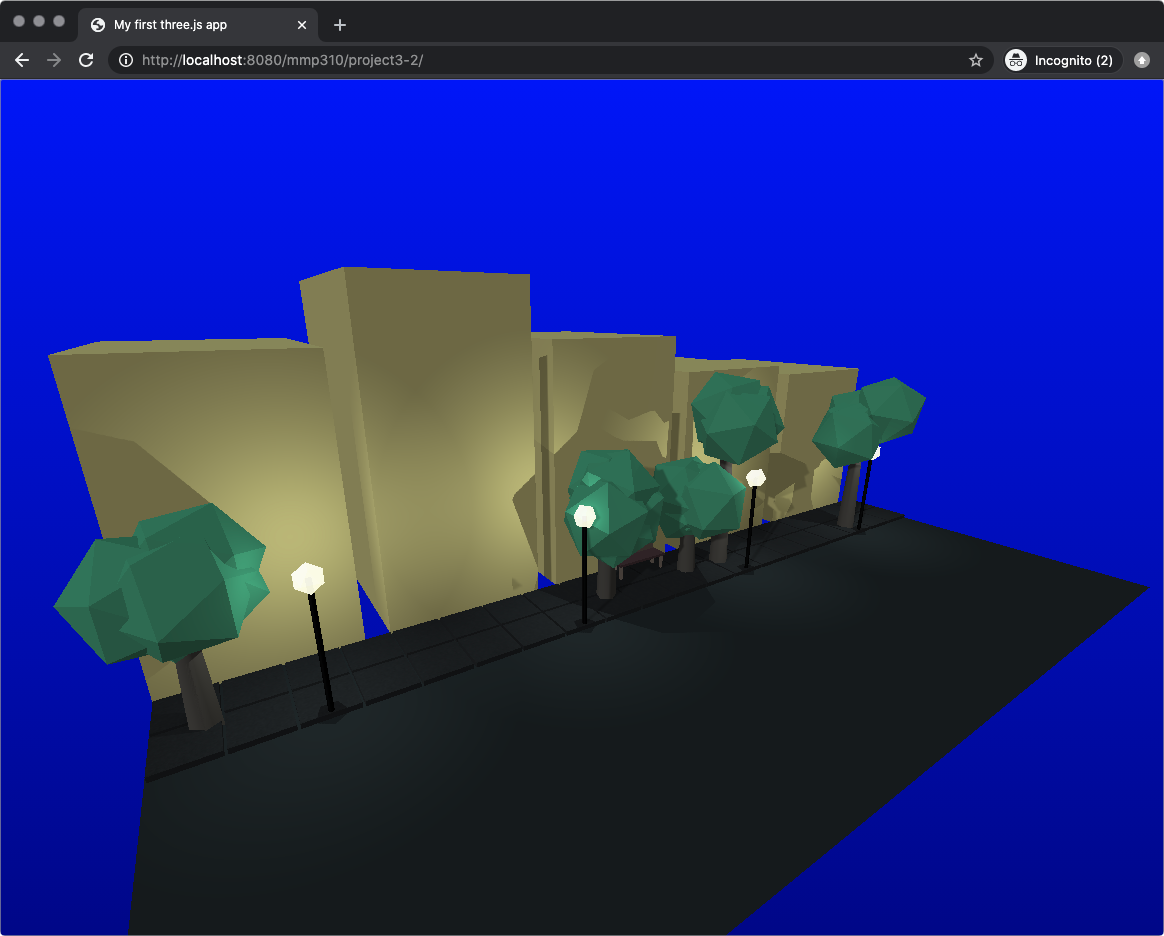
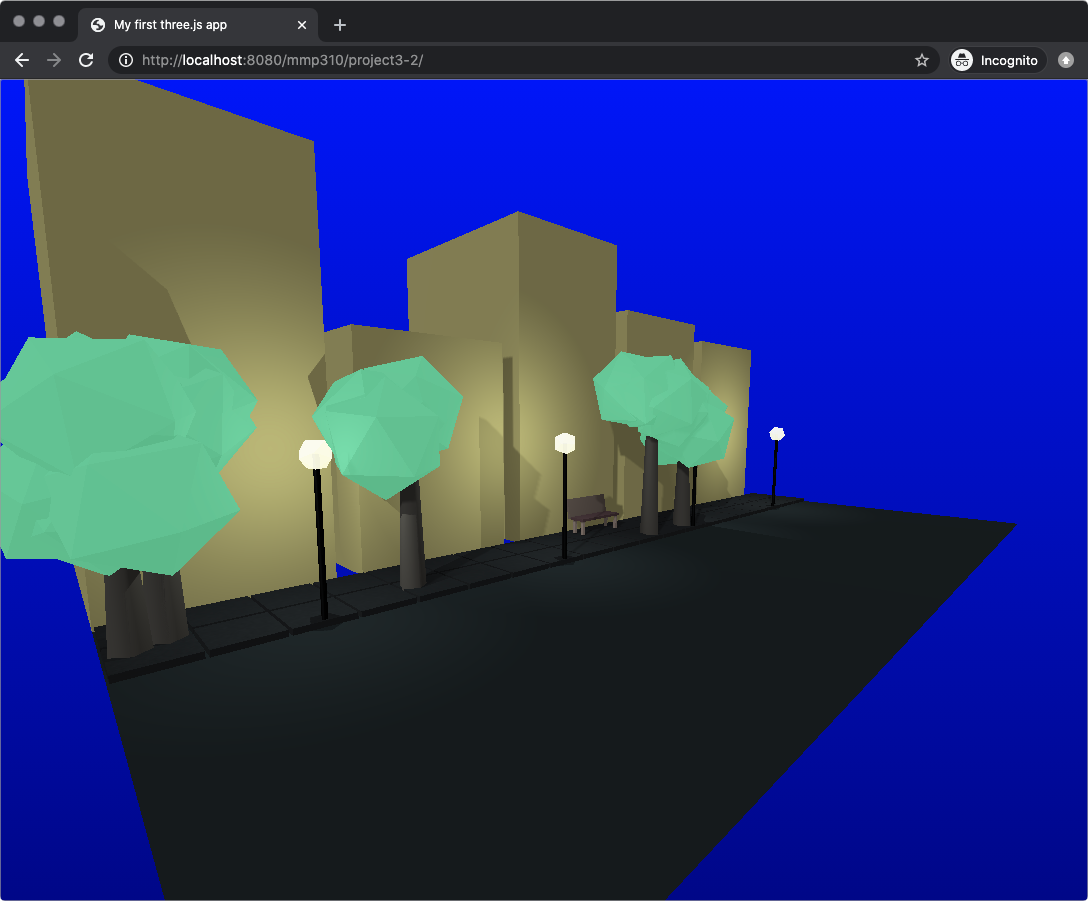
material update

Changed region(s): [[0.0, 0.0, 1.0, 1.0], [0.625, 0.5594, 1.0, 0.9945], [0.5938, 0.9945, 0.625, 1.0]]

diff --git a/project3-2/scene.js b/project3-2/scene.js
@@ -128,7 +128,7 @@ for (let i = 0; i < numTrees; i++) {
 	const numLeaves = random( 1, 5 );
 	for (let j = 0; j < numLeaves; j++) {
 		const leafGeo = new THREE.IcosahedronGeometry( random( 0.25 ) );
-		const leafMat = new THREE.MeshStandardMaterial( { color: 0x8AE8A7, metalness: 0.5, emissive: new THREE.Color( 0x8AE8A7 ), emissiveIntensity: 0.1  } );
+		const leafMat = new THREE.MeshStandardMaterial( { color: 0x1D211E, emissive: new THREE.Color( 0x8AE8A7 ), emissiveIntensity: 0.75  } );
 		const leaf = new THREE.Mesh( leafGeo, leafMat );
 		let x = random( -0.5, 0.5 );
 		let y = h / 2 + random( -0.5, 0.25 );
